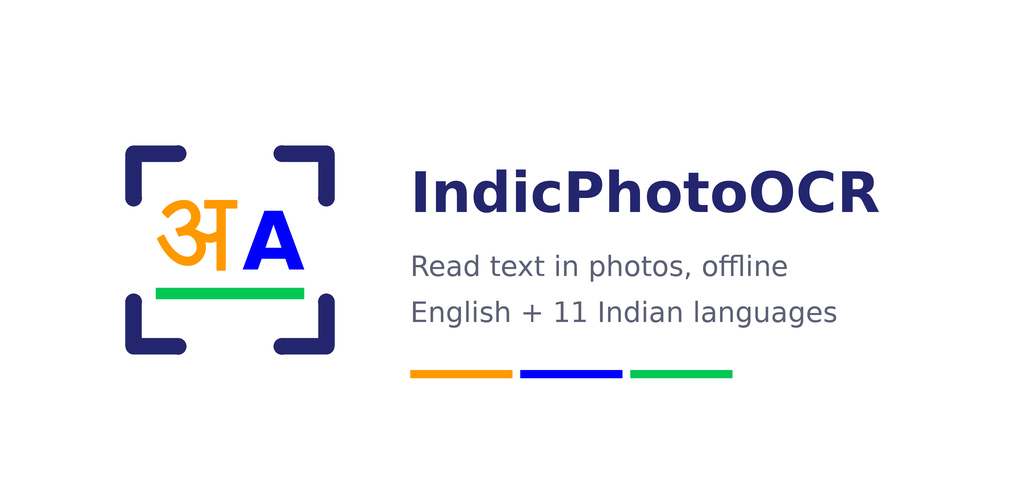
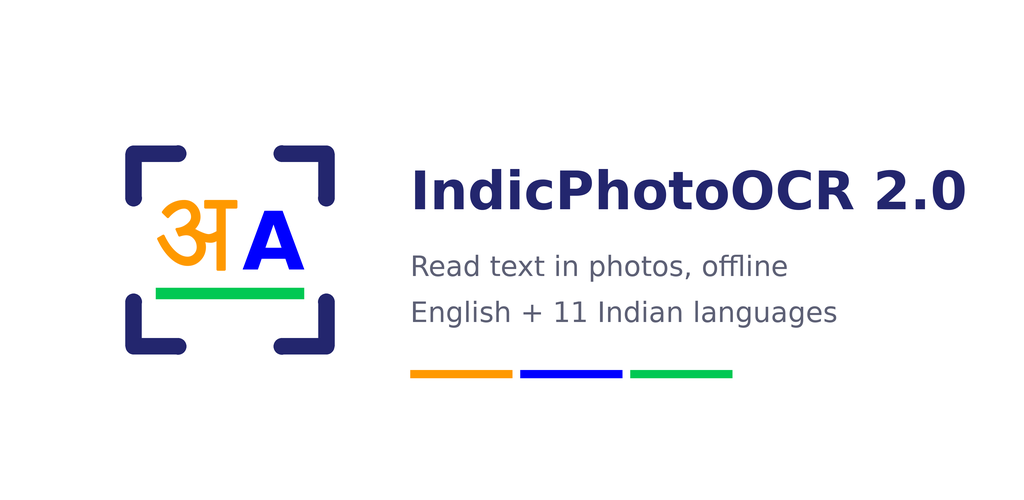
README for users: install from Play, GitHub Releases or Obtainium; update docs and store listing

Changed region(s): [[0.4062, 0.33, 0.9688, 0.45]]

diff --git a/tools/make_icon.py b/tools/make_icon.py
@@ -142,10 +142,13 @@ def render_png(size, out, feature=False):
                stroke_width=int(0.4 * k) if font == DEVA else 0, stroke_fill=col)
     d.rectangle([ox + x0 * k, oy + (base + 5) * k, ox + (x0 + total) * k, oy + (base + 8) * k], fill=GREEN)
     if feature:
+        title = "IndicPhotoOCR 2.0"
         f1 = ImageFont.truetype(LATN, 56 * S)
+        while d.textlength(title, font=f1) > W - (ox + 100 * k + 10 * S) - 48 * S:  # keep a right margin
+            f1 = ImageFont.truetype(LATN, f1.size - S)
         f2 = ImageFont.truetype("/usr/share/fonts/truetype/dejavu/DejaVuSans.ttf", 28 * S)
         tx = ox + 100 * k + 10 * S
-        d.text((tx, 160 * S), "IndicPhotoOCR", font=f1, fill=NAVY)
+        d.text((tx, 160 * S), title, font=f1, fill=NAVY)
         d.text((tx, 250 * S), "Read text in photos, offline", font=f2, fill="#5D6075")
         d.text((tx, 296 * S), "English + 11 Indian languages", font=f2, fill="#5D6075")
         for i, c in enumerate([ORANGE, BLUE, GREEN]):

diff --git a/README.md b/README.md
@@ -1,15 +1,46 @@
-# IndicPhotoOCR 2.0: Android app source (version 2.0.0-alpha7.5)
+<p align="center"><img src="store/icon_512.png" width="112" alt="IndicPhotoOCR 2.0 icon"></p>
 
-An offline Android app that reads text in photos in English and 11 Indian languages (Hindi, Bengali, Marathi, Tamil, Telugu, Kannada, Malayalam, Gujarati, Punjabi, Odia, Assamese). Everything runs on the phone with ONNX Runtime; the app has no internet permission.
+<h1 align="center">IndicPhotoOCR 2.0</h1>
 
-This zip has everything needed to change the code and rebuild the app on another machine: the source, the 14 ONNX models, the build scripts, the Play Store graphics and the docs. The APK/AAB are not included (~465 / ~335 MB); build them with the steps below.
+<p align="center">Read text in photos in English and 11 Indian languages, fully offline, on Android.</p>
+
+<p align="center">
+  <a href="https://github.com/Asadalk/IndicPhotoOCR-Android/releases/latest"><img src="https://img.shields.io/github/v/release/Asadalk/IndicPhotoOCR-Android?label=Download%20APK&logo=android&style=for-the-badge" alt="Download the APK" height="40"></a>
+  <a href="https://apps.obtainium.imranr.dev/redirect?r=obtainium://add/https://github.com/Asadalk/IndicPhotoOCR-Android"><img src="https://raw.githubusercontent.com/ImranR98/Obtainium/main/assets/graphics/badge_obtainium.png" alt="Get it on Obtainium" height="40"></a>
+</p>
+
+IndicPhotoOCR 2.0 finds and reads the text in photos of signboards, shop fronts, notices, labels and pages, in **English, Hindi, Bengali, Marathi, Gujarati, Punjabi, Odia, Assamese, Tamil, Telugu, Kannada and Malayalam**.
+
+- **Offline and private.** Everything runs on the phone. The app has no internet permission: no account, no ads, no tracking, nothing collected ([privacy policy](https://asadalk.github.io/IndicPhotoOCR-Android/privacy.html)).
+- **Simple.** Take a photo, pick one from the gallery, or share an image to the app. Found words are boxed on the photo, and the text can be copied or shared.
+- **Fast where it can be.** Uses the phone's GPU/NPU for detection when that is faster than the CPU.
+
+Created by people at the Vision, Language and Learning Group (VL2G), IIT Jodhpur. Supported by Bhashini.
+
+## Install
+
+| Where | How | Updates |
+|---|---|---|
+| **Google Play** | In closed testing now; the public listing (`com.vl2g.indicphotoocr`) opens after the test. The link will be added here. | automatic |
+| **GitHub Releases** | Download `IndicPhotoOCR-<version>.apk` from the [latest release](https://github.com/Asadalk/IndicPhotoOCR-Android/releases/latest), open it on the phone and allow "Install unknown apps". | manual |
+| **[Obtainium](https://obtainium.imranr.dev)** | Tap the Obtainium badge above on the phone, or in Obtainium add the URL `https://github.com/Asadalk/IndicPhotoOCR-Android`. | from GitHub Releases |
+
+The release APK is the same Google-signed app as on Google Play, so you can switch between Play, GitHub and Obtainium without uninstalling.
+
+**Requirements:** Android 8.0 or newer, a 64-bit ARM phone (almost all phones since 2017), about 500 MB free space; 4 GB RAM or more recommended. The download is large (~335 MB from Play, ~465 MB as one APK) because the 14 recognition models are inside the app; that is what lets it work offline.
+
+**F-Droid:** not available. F-Droid builds every app from source on its own servers, and this app depends on prebuilt ONNX Runtime binaries and ~420 MB of trained models, which do not fit its rules. Obtainium is the open-source alternative.
 
 ---
+
+# For developers
+
+This repository has everything needed to change the code and rebuild the app: the source, the 14 ONNX models, the build scripts, the Play Store graphics and the docs. Licence: **AGPL-3.0** (see `LICENSE`; it is required because the text detector was trained with Ultralytics YOLO). Other components and their licences are listed in the app under *Open-source licences* and in `docs/LICENCE_AUDIT.md`.
 
 ## 1. Quick start (Linux x86_64)
 
 ```bash
-unzip IndicPhotoOCR2-app-source-7.5.zip && cd IndicPhotoOCR2-app
+git clone https://github.com/Asadalk/IndicPhotoOCR-Android.git && cd IndicPhotoOCR-Android
 bash setup_toolchain.sh     # once: JDK 17 + Android SDK 36 + bundletool into ./toolchain (~1.5 GB, needs internet)
 bash build_apk.sh           # Gradle 8.13 is downloaded by the wrapper on first run
 ```
@@ -32,10 +63,10 @@ toolchain/sdk/platform-tools/adb install -r IndicPhotoOCR2.apk
 
 ---
 
-## 2. What is in the zip
+## 2. What is in the repository
 
 ```
-IndicPhotoOCR2-app/
+IndicPhotoOCR-Android/
 ├── README.md                  this file
 ├── setup_toolchain.sh         installs JDK 17 + Android SDK locally (Linux)
 ├── build_apk.sh               builds the .aab (for Play) and one installable test APK
@@ -52,7 +83,7 @@ IndicPhotoOCR2-app/
 │   │       │   ├── InfoActivity.kt   About Us / Terms of Service / Privacy Policy / Open-source licences screens
 │   │       │   ├── ModelStore.kt     loads models straight from the APK; saves the accelerator choice
 │   │       │   └── ReadingOrder.kt   puts recognised words into lines (top-to-bottom, left-to-right)
-│   │       ├── res/                  layouts, strings (all app text), colours, icons, logos
+│   │       ├── res/                  layouts, strings (all app text), colours, icons, app logo
 │   │       ├── assets/licenses/      NOTICE.txt + full licence texts shown in "Open-source licences"
 │   │       └── AndroidManifest.xml
 │   ├── ocrcore/               pure-Kotlin OCR engine shared by the app and :verify
@@ -64,7 +95,8 @@ IndicPhotoOCR2-app/
 ├── store/                     Play Store icon (512×512) and feature graphic (1024×500)
 └── docs/
     ├── PLAY_STORE_GUIDE.md    how to publish on Google Play, costs, checklist
-    ├── LICENCE_AUDIT.md       licences of every model/library, the open issues, and what to do
+    ├── LICENCE_AUDIT.md       licences of every model/library and how each is met
+    ├── privacy.html, index.html  privacy policy page (GitHub Pages)
     └── CHANGELOG.md           what changed in each test build
 ```
 
@@ -123,7 +155,7 @@ Accuracy of this exact pipeline (BSTD, official metric, average of 10 languages,
 
 ## 6. Python tools (`tools/`)
 
-These ran on the lab server (conda env `indicphotoocr`). They need the IndicPhotoOCR repo and the BSTD dataset, which are not in this zip.
+These ran on the lab server (conda env `indicphotoocr`). They need the IndicPhotoOCR repo and the BSTD dataset, which are not in this repository.
 
 | Script | Purpose |
 |---|---|
@@ -145,7 +177,9 @@ This runs the exact app engine on a computer, so its output can be compared word
 
 ## 7. Signing and release
 
-The build is signed with the **debug key** (`signingConfig = debug` in `app/build.gradle.kts`). That is fine for test installs, but **not** for Google Play, and a debug-signed APK cannot update an app signed with another machine's debug key: uninstall the old app first. For Play: create an upload key, add a `signingConfigs.release` block that uses it, and upload `app-release.aab`. Already done for Play: .aab output, models in an install-time asset pack (base ~14 MB, model pack ~335 MB download), targetSdk 36, 16 KB-aligned native libraries. See `docs/PLAY_STORE_GUIDE.md`.
+- **Without a key**, release builds are signed with the debug key. That is fine for testing on your own phone, but such an APK cannot update the official app (different signature): uninstall the official app first.
+- **Official builds** are signed with the upload key, read from `~/.indicphotoocr-signing.properties` (`storeFile`, `storePassword`, `keyAlias`, `keyPassword`; another path can be given in `INDICPHOTOOCR_SIGNING`). The key and its password are never committed. Google Play re-signs the app with its own app-signing key (Play App Signing).
+- **Release steps:** raise `versionCode` and set `versionName` in `app/build.gradle.kts`, run `build_apk.sh`, upload `app-release.aab` to Play. For GitHub, download the *signed, universal APK* of that version from Play Console (App bundle explorer → Downloads) and attach it to a GitHub release named `v<versionName>`, so the GitHub APK has the same signature as the Play app.
 
 ---
 

diff --git a/docs/PLAY_STORE_GUIDE.md b/docs/PLAY_STORE_GUIDE.md
@@ -72,7 +72,7 @@ Then complete **every item under "App content"**:
 
 ## 5. Store listing (Grow → Store presence → Main store listing)
 
-Prepared in `store/` (generated by `tools/make_icon.py`):
+Prepared in `store/` (graphics generated by `tools/make_icon.py`; all listing text, ready to paste, in `store/listing.txt`):
 - **App icon** 512×512 PNG: `store/icon_512.png` ✔
 - **Feature graphic** 1024×500 PNG: `store/feature_graphic_1024x500.png` ✔
 - **Phone screenshots:** at least 2 (recommended 4–8), 16:9 or 9:16, min 320 px side. Take them on the Pixel 9 with real photos: start screen, a sign with boxes, the text result, the side menu.
@@ -122,13 +122,14 @@ What is left:
 - [x] Logos removed, "Supported by Bhashini" text only (7.5)
 - [x] Detector starting checkpoint source and licence confirmed (RoyRud1902/yolo11n-text, Apache-2.0)
 - [x] MIST use cleared by sir
-- [x] Open-source licences screen, real Terms and Privacy text in the app; privacy page `docs/privacy.html` pushed; [ ] GitHub Pages switched on → URL https://asadalk.github.io/IndicPhotoOCR-Android/privacy.html
+- [x] Open-source licences screen, real Terms and Privacy text in the app; privacy page `docs/privacy.html` pushed; [x] GitHub Pages on → URL https://asadalk.github.io/IndicPhotoOCR-Android/privacy.html
 - [x] Final app ID `com.vl2g.indicphotoocr` (first build with it: 7.6)
-- [x] .aab with install-time model pack, targetSdk 36; [ ] signed with the upload key
-- [ ] Personal developer account created and verified
-- [ ] Closed test: 12+ testers for 14 days, on different phones (low-end too); then production access
-- [ ] Screenshots (no logos), descriptions, content rating, data safety done
-- [ ] versionName without "alpha" (e.g. `2.0.0`)
+- [x] .aab with install-time model pack, targetSdk 36; [x] signed with the upload key (2.0.0, versionCode 14)
+- [x] Personal developer account created and verified (developer name "faisalyst")
+- [x] Closed test live (13 Nov 2026; installed from Play and checked: models load, text reads)
+- [ ] 12+ testers opted in for 14 days in a row, on different phones (low-end too); then Apply for production
+- [x] Screenshots (no logos), descriptions, content rating, data safety done (text: `store/listing.txt`)
+- [x] versionName without "alpha" (`2.0.0`)
 
 ## Sources
 

diff --git a/docs/CHANGELOG.md b/docs/CHANGELOG.md
@@ -14,3 +14,4 @@
 | **test7.5 (alpha7.5)** | 2026-11-07 | **Personal-account release prep** (sir: personal Play account, no logos, "Supported by Bhashini" is fine). IIT Jodhpur and Bhashini **logos removed** (main footer, About Us, side-menu header; PNGs deleted); footer text "Created at VL2G, IIT Jodhpur · Supported by Bhashini"; side-menu header and About Us show the IndicPhotoOCR logo. About/Terms/Privacy: "created by people at VL2G, IIT Jodhpur"; Terms liability now "the developers and contributors", item 7 says neither IIT Jodhpur nor Bhashini publishes the app. **Permanent app ID `io.github.asadalk.indicphotoocr`** (installs as a new app; uninstall older test builds). Source link → `github.com/Asadalk/IndicPhotoOCR-Android`. Detector start-weights credit (yolo11n-text, Apache-2.0) in Open-source licences. versionCode 12. |
 | **test7.6 (alpha7.6)** | 2026-11-09 | **Final app ID `com.vl2g.indicphotoocr`** (sir's choice), replacing 7.5's `io.github.asadalk.indicphotoocr`; installs as a new app (uninstall older builds). Side-menu logo smaller (190 dp wide instead of full drawer width). versionCode 13. |
 | **2.0.0 (Play)** | 2026-11-10 | First Play upload build: same app as test7.6, versionName `2.0.0`, versionCode 14, **signed with the upload key** (read from `~/.indicphotoocr-signing.properties`, never committed; without that file release builds fall back to the debug key). Upload-key SHA-256 `04:72:BE:F1:…:77:6B`. |
+| **2.0.0 (Play)**, later | 2026-11-13 | Uploaded to Google Play closed testing and approved the same day; Play install checked (models load, text reads). Store listing ready: `store/listing.txt`, feature graphic now titled "IndicPhotoOCR 2.0". README rewritten for users (install: Play, GitHub Releases, Obtainium). |
